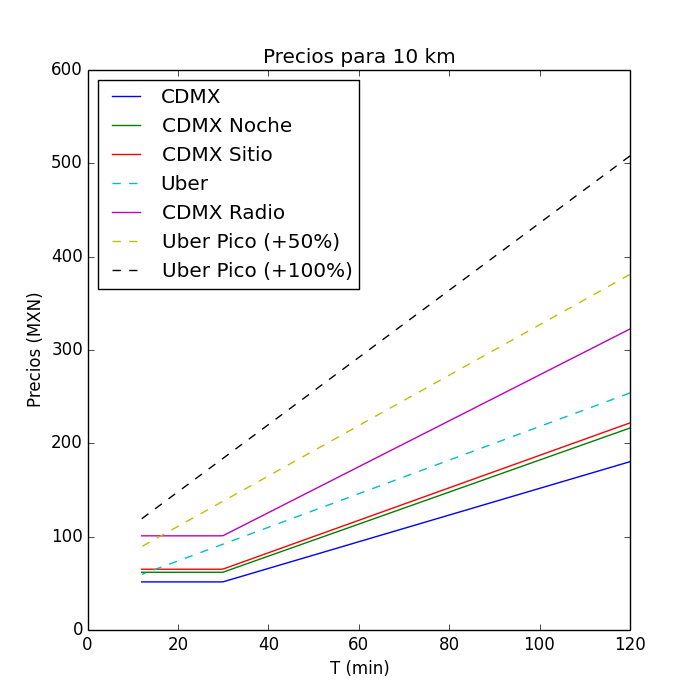
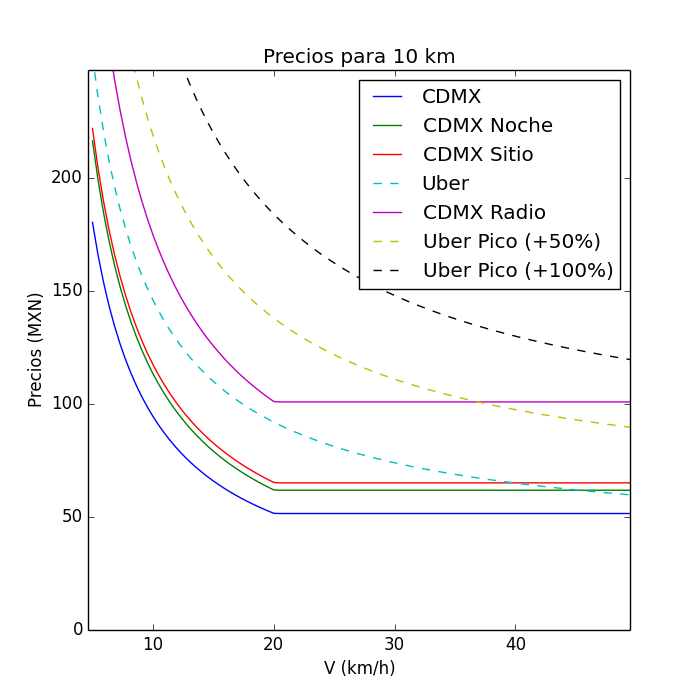
changing X-axis from time to velocity

diff --git a/compare_taxi.py b/compare_taxi.py
@@ -40,16 +40,16 @@ R_precio = R_fix + np.maximum(km * R_km, t * R_t)
 
 f, ax = plt.subplots(figsize=(7,7))
 
-ax.plot(t, T_precio, label='CDMX')
-ax.plot(t, T_precio*1.2, label='CDMX Noche')
-ax.plot(t, S_precio, label='CDMX Sitio')
-ax.plot(t, U_precio, label='Uber', linestyle='--')
-ax.plot(t, R_precio, label='CDMX Radio')
-ax.plot(t, U_precio*1.5, label='Uber Pico (+50%)', linestyle='--')
-ax.plot(t, U_precio*2.0, label='Uber Pico (+100%)', linestyle='--')
+ax.plot(v, T_precio, label='CDMX')
+ax.plot(v, T_precio*1.2, label='CDMX Noche')
+ax.plot(v, S_precio, label='CDMX Sitio')
+ax.plot(v, U_precio, label='Uber', linestyle='--')
+ax.plot(v, R_precio, label='CDMX Radio')
+ax.plot(v, U_precio*1.5, label='Uber Pico (+50%)', linestyle='--')
+ax.plot(v, U_precio*2.0, label='Uber Pico (+100%)', linestyle='--')
 
 ax.legend(loc='best')
-ax.set_xlabel('T (min)')
+ax.set_xlabel('V (km/h)')
 ax.set_ylabel('Precios (MXN)')
 ax.set_title('Precios para {:.0f} km'.format(km_0))
 plt.show()
